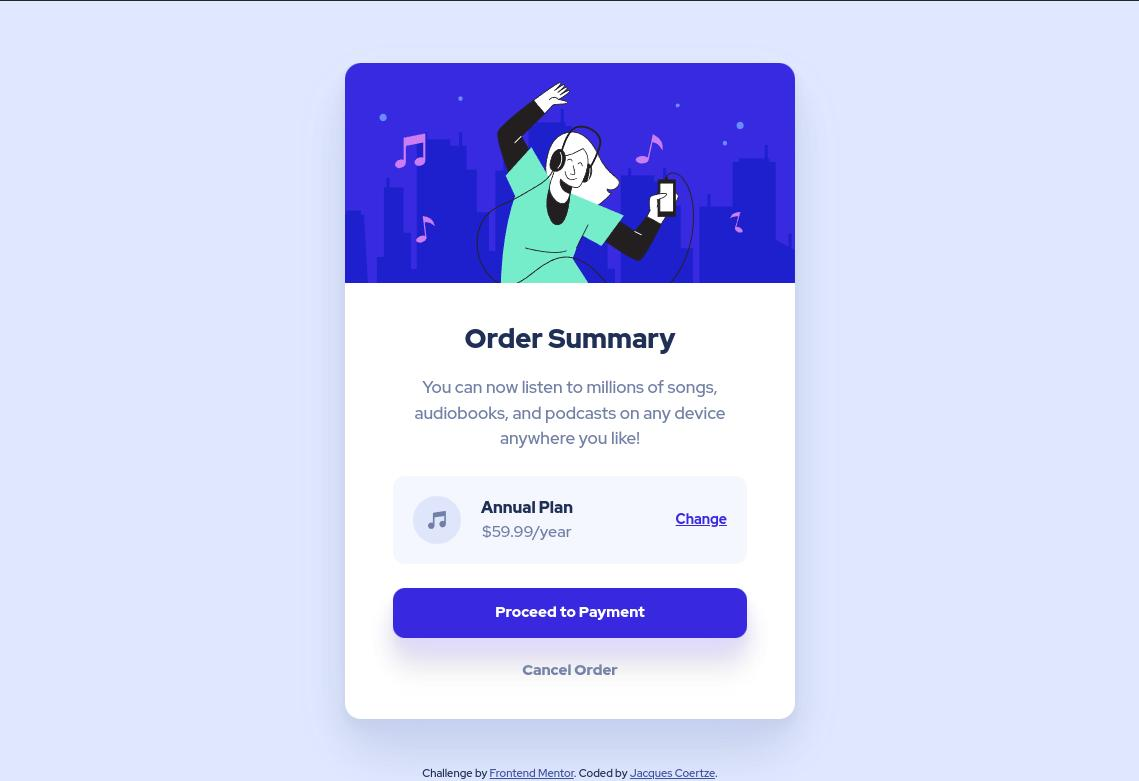
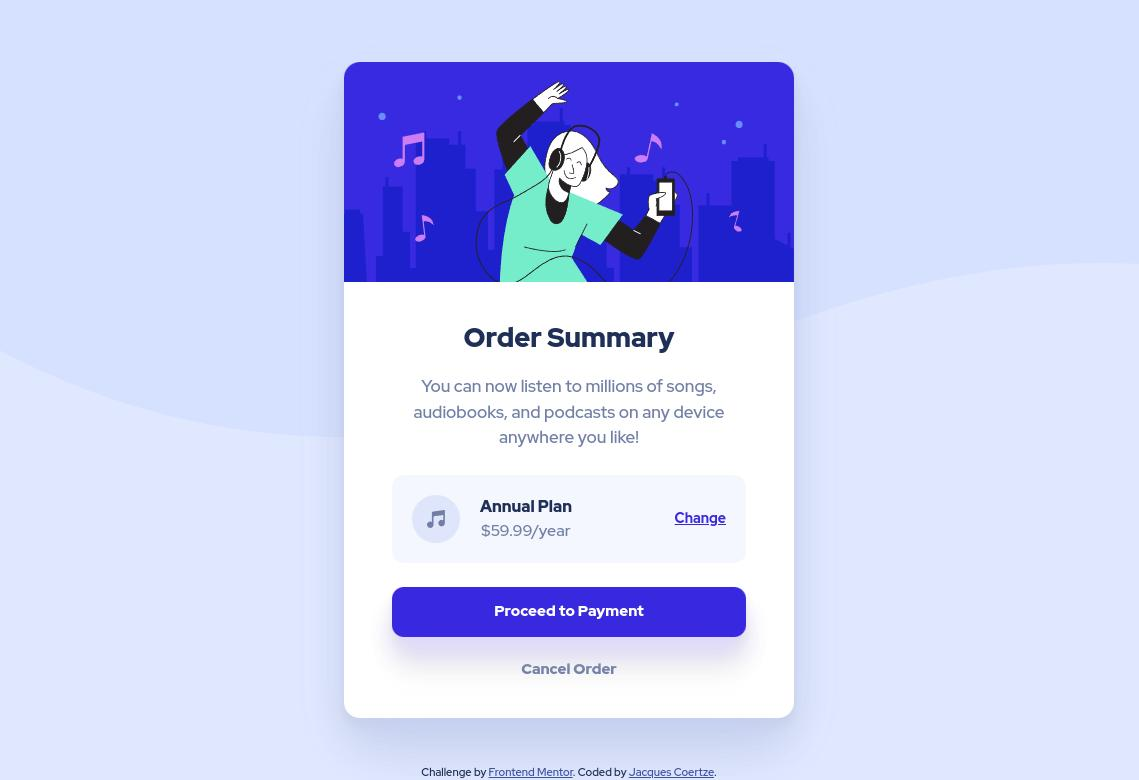
feat: Added repeating background

diff --git a/index.html b/index.html
@@ -13,7 +13,8 @@
   <title>Frontend Mentor | Order summary card</title>
 </head>
 
-<body class="grid h-screen place-content-center bg-primary-300 font-redhat text-[16px] font-normal text-neutral-900">
+<body
+  class="grid h-screen place-content-center bg-primary-300 font-redhat text-[16px] font-normal text-neutral-900 bg-repeat-x bg-mobile md:bg-desktop">
   <main
     class="mx-auto min-w-[340px] max-w-[340px] overflow-hidden rounded-2xl bg-white shadow-2xl shadow-neutral-400 drop-shadow-xl md:min-w-[450px] md:max-w-[450px]">
     <div>

diff --git a/style.css b/style.css
@@ -1,3 +1,13 @@
 @tailwind base;
 @tailwind components;
 @tailwind utilities;
+
+@layer utilities {
+  .bg-desktop {
+    background-image: url('pattern-background-desktop.svg')
+  }
+
+  .bg-mobile {
+    background-image: url('pattern-background-mobile.svg')
+  }
+}
